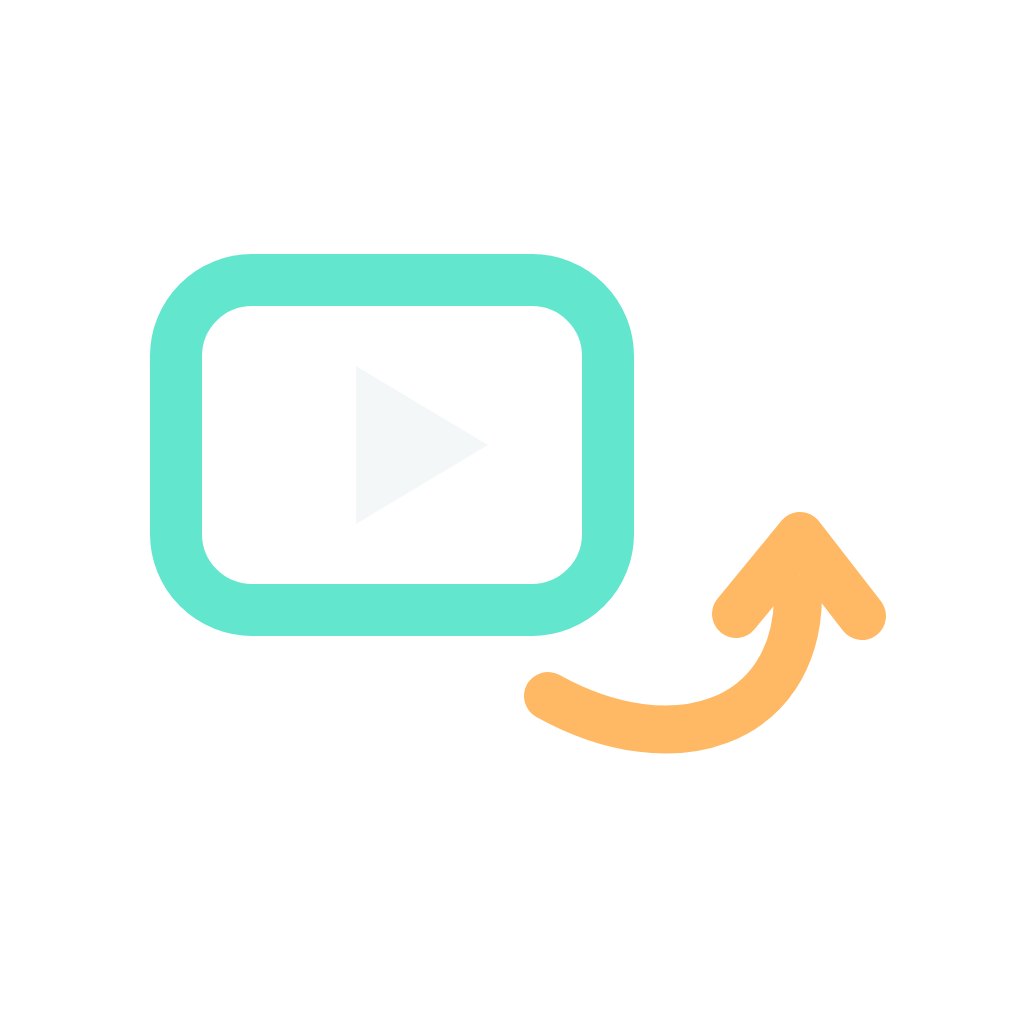
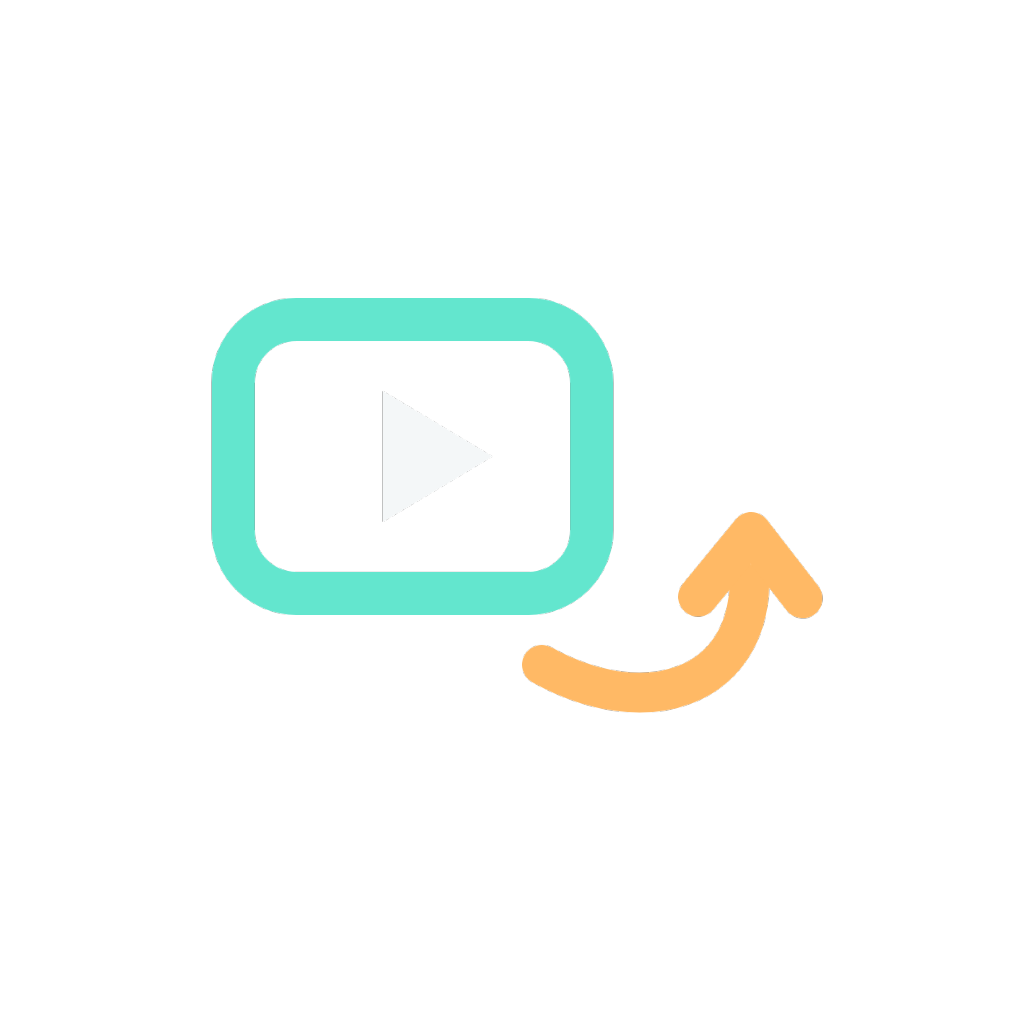
fix(ui): respect safe areas and unblock home touches

Changed region(s): [[0.125, 0.25, 0.875, 0.75]]

diff --git a/src/ui/screens/ConversionScreen.tsx b/src/ui/screens/ConversionScreen.tsx
@@ -1,5 +1,7 @@
 import React, { useCallback, useEffect, useReducer, useRef, useState } from 'react';
+import brandMark from '../../../assets/brand-mark.png';
 import { AccessibilityInfo, Animated, AppState, Linking, Platform, Pressable, ScrollView, StyleSheet, Text, View } from 'react-native';
+import { useSafeAreaInsets } from 'react-native-safe-area-context';
 import Constants from 'expo-constants';
 import * as Notifications from 'expo-notifications';
 import * as Sharing from 'expo-sharing';
@@ -78,6 +80,7 @@ import { SubtitlePanel } from '../components/SubtitlePanel';
 import { VideoPreviewCard, type PreviewState } from '../components/VideoPreviewCard';
 import { color, layout, spacing, type } from '../tokens';
 import { updateQueueBadge } from '../navigation/queueBadge';
+import { bottomNavigationClearance } from '../layout';
 
 /** Shown once when Android 13+ notification permission is refused (TR-29). */
 const NOTIFICATION_UNAVAILABLE =
@@ -107,6 +110,7 @@ let introAlreadyShown = false;
  */
 export function ConversionScreen(): React.JSX.Element {
   const router = useRouter();
+  const insets = useSafeAreaInsets();
   const pathname = usePathname();
   const rootNavigationState = useRootNavigationState();
   const detailsId = pathname.startsWith('/results/') ? pathname.slice('/results/'.length) : null;
@@ -876,6 +880,7 @@ export function ConversionScreen(): React.JSX.Element {
     <View style={styles.screen}>
       {showQueue ? (
         <QueuePanel
+          bottomInset={insets.bottom}
           state={queue}
           focusId={focusId}
           disabled={saveState.status === 'saving'}
@@ -918,7 +923,10 @@ export function ConversionScreen(): React.JSX.Element {
           ) : null}
         />
       ) : (
-      <ScrollView contentContainerStyle={styles.content} style={styles.scroll}>
+      <ScrollView
+        contentContainerStyle={[styles.content, { paddingBottom: bottomNavigationClearance(insets.bottom) + layout.screenPadding }]}
+        style={styles.scroll}
+      >
         <View style={styles.inner}>
           {showHome ? (
             <HomeDashboard
@@ -986,6 +994,7 @@ export function ConversionScreen(): React.JSX.Element {
 
           {showQueue && queue.jobs.length > 0 ? (
             <QueuePanel
+              bottomInset={insets.bottom}
               state={queue}
               focusId={focusId}
               disabled={saveState.status === 'saving'}
@@ -1199,7 +1208,7 @@ export function ConversionScreen(): React.JSX.Element {
 
       {/* Without a file there is nothing to convert, so the action bar stays away. */}
       {showConvert && queue.jobs.length > 0 ? (
-        <View style={styles.actionBar}>
+        <View style={[styles.actionBar, { marginBottom: bottomNavigationClearance(insets.bottom) + spacing.sm }]}>
           {running !== null ? (
             <SecondaryButton
               label="Cancel all"
@@ -1367,7 +1376,7 @@ function Entrance({ children, delay }: { readonly children: React.ReactNode; rea
 }
 
 /** The animated pieces assemble over a static copy of the established brand mark. */
-function IntroOverlay({ reducedMotion }: { readonly reducedMotion: boolean }): React.JSX.Element {
+export function IntroOverlay({ reducedMotion }: { readonly reducedMotion: boolean }): React.JSX.Element {
   const progress = React.useRef(new Animated.Value(0)).current;
   useEffect(() => {
     Animated.timing(progress, { toValue: 1, duration: reducedMotion ? 350 : 1550, useNativeDriver: true }).start();
@@ -1387,7 +1396,13 @@ function IntroOverlay({ reducedMotion }: { readonly reducedMotion: boolean }): R
     ? progress.interpolate({ inputRange: [0, 1], outputRange: [0, 1] })
     : progress.interpolate({ inputRange: [0.78, 1], outputRange: [0, 1] });
   return (
-    <View style={styles.introOverlay} accessible accessibilityViewIsModal accessibilityLabel="Transmute is starting">
+    <View
+      pointerEvents="none"
+      style={styles.introOverlay}
+      accessible={false}
+      accessibilityElementsHidden
+      importantForAccessibility="no-hide-descendants"
+    >
       <View style={styles.markCanvas}>
         {!reducedMotion ? <>
           <Animated.View style={[styles.logoFrame, pieceStyle(-36, -24)]} />
@@ -1396,7 +1411,7 @@ function IntroOverlay({ reducedMotion }: { readonly reducedMotion: boolean }): R
           <Animated.View style={[styles.logoArrowHeadOne, pieceStyle(-18, 20, '-50deg')]} />
           <Animated.View style={[styles.logoArrowHeadTwo, pieceStyle(-18, 20, '56deg')]} />
         </> : null}
-        <Animated.Image source={require('../../../assets/brand-mark.png')} resizeMode="contain" style={[styles.assembledMark, { opacity: finalMarkOpacity }]} />
+        <Animated.Image source={brandMark} resizeMode="contain" style={[styles.assembledMark, { opacity: finalMarkOpacity }]} />
       </View>
       <Animated.Text style={[styles.introWordmark, { opacity: wordmarkOpacity }]}>Transmute</Animated.Text>
     </View>
@@ -1413,7 +1428,6 @@ const styles = StyleSheet.create({
   },
   content: {
     padding: layout.screenPadding,
-    paddingBottom: 120,
   },
   inner: {
     width: '100%',
@@ -1507,7 +1521,6 @@ const styles = StyleSheet.create({
   actionBar: {
     gap: spacing.sm,
     padding: layout.screenPadding,
-    marginBottom: 94,
     borderTopWidth: 1,
     borderTopColor: color.border,
     backgroundColor: color.bg,

diff --git a/app/_layout.tsx b/app/_layout.tsx
@@ -1,7 +1,7 @@
 import { Stack } from 'expo-router';
 import { StatusBar } from 'expo-status-bar';
-import { Platform, StatusBar as NativeStatusBar, StyleSheet, View } from 'react-native';
-import { SafeAreaProvider } from 'react-native-safe-area-context';
+import { StyleSheet, View } from 'react-native';
+import { SafeAreaProvider, useSafeAreaInsets } from 'react-native-safe-area-context';
 
 import { ConversionScreen } from '../src/ui/screens/ConversionScreen';
 import { color } from '../src/ui/tokens';
@@ -9,30 +9,35 @@ import { color } from '../src/ui/tokens';
 export default function RootLayout() {
   return (
     <SafeAreaProvider>
-      <View style={styles.root}>
-        <StatusBar style="light" />
-        <View style={styles.inset}>
-          {/* Keep the conversion controller mounted while the route changes. */}
-          <View pointerEvents="box-none" style={styles.controller}>
-            <ConversionScreen />
-          </View>
-          <Stack screenOptions={{ headerShown: false, animation: 'fade', contentStyle: { backgroundColor: 'transparent' } }}>
-            <Stack.Screen name="(tabs)" options={{ headerShown: false }} />
-            <Stack.Screen name="activity" options={{ animation: 'slide_from_right' }} />
-            <Stack.Screen name="notices" options={{ animation: 'slide_from_right' }} />
-            <Stack.Screen name="results/[id]" options={{ animation: 'slide_from_right' }} />
-          </Stack>
-        </View>
-      </View>
+      <RootContent />
     </SafeAreaProvider>
+  );
+}
+
+function RootContent() {
+  const insets = useSafeAreaInsets();
+  return (
+    <View style={styles.root}>
+      <StatusBar style="light" />
+      {/* Apply the system top inset here once; descendants only handle the tab bar. */}
+      <View style={[styles.inset, { paddingTop: insets.top, paddingLeft: insets.left, paddingRight: insets.right }]}>
+        {/* Keep the conversion controller mounted while the route changes. */}
+        <View pointerEvents="box-none" style={styles.controller}>
+          <ConversionScreen />
+        </View>
+        <Stack screenOptions={{ headerShown: false, animation: 'fade', contentStyle: { backgroundColor: 'transparent' } }}>
+          <Stack.Screen name="(tabs)" options={{ headerShown: false }} />
+          <Stack.Screen name="activity" options={{ animation: 'slide_from_right' }} />
+          <Stack.Screen name="notices" options={{ animation: 'slide_from_right' }} />
+          <Stack.Screen name="results/[id]" options={{ animation: 'slide_from_right' }} />
+        </Stack>
+      </View>
+    </View>
   );
 }
 
 const styles = StyleSheet.create({
   root: { flex: 1, backgroundColor: color.bg },
-  inset: {
-    flex: 1,
-    paddingTop: Platform.OS === 'android' ? (NativeStatusBar.currentHeight ?? 0) : 44,
-  },
+  inset: { flex: 1 },
   controller: StyleSheet.absoluteFill,
 });

diff --git a/src/ui/navigation/RootLayout.test.tsx b/src/ui/navigation/RootLayout.test.tsx
@@ -14,7 +14,7 @@ vi.mock('react-native', async () => {
     ReactModule.createElement(name, props, children as React.ReactNode);
   return {
     Platform: { OS: 'android' },
-    StatusBar: { currentHeight: 24 },
+    StatusBar: { currentHeight: 99 },
     StyleSheet: { create: (styles: unknown) => styles, absoluteFill: { position: 'absolute' } },
     View: host('View'),
   };
@@ -27,7 +27,10 @@ vi.mock('expo-status-bar', async () => {
 
 vi.mock('react-native-safe-area-context', async () => {
   const ReactModule = await import('react');
-  return { SafeAreaProvider: ({ children }: { children: React.ReactNode }) => ReactModule.createElement('SafeAreaProvider', null, children) };
+  return {
+    SafeAreaProvider: ({ children }: { children: React.ReactNode }) => ReactModule.createElement('SafeAreaProvider', null, children),
+    useSafeAreaInsets: () => ({ top: 24, right: 12, bottom: 32, left: 8 }),
+  };
 });
 
 vi.mock('expo-router', async () => {
@@ -67,6 +70,8 @@ describe('root conversion controller navigation lifecycle', () => {
   it('keeps the controller mounted as the Router stack changes screens', () => {
     act(() => { renderer = TestRenderer.create(React.createElement(RootLayout)); });
     expect(mocks.mounts).toBe(1);
+    const insetView = renderer.root.findAll((node) => String(node.type) === 'View' && Array.isArray(node.props.style) && node.props.style.some((style) => style !== null && typeof style === 'object' && 'paddingTop' in style))[0];
+    expect(insetView?.props.style).toEqual(expect.arrayContaining([expect.objectContaining({ paddingTop: 24, paddingLeft: 8, paddingRight: 12 })]));
 
     mocks.route = '/queue';
     act(() => { renderer.update(React.createElement(RootLayout)); });

diff --git a/src/ui/screens/ConversionScreen.test.tsx b/src/ui/screens/ConversionScreen.test.tsx
@@ -34,6 +34,12 @@ vi.mock('react-native', async () => {
   };
 });
 
+vi.mock('../../../assets/brand-mark.png', () => ({ default: 'brand-mark' }));
+
+vi.mock('react-native-safe-area-context', () => ({
+  useSafeAreaInsets: () => ({ top: 0, right: 0, bottom: 24, left: 0 }),
+}));
+
 vi.mock('expo-router', () => ({
   useRouter: () => ({ push: mocks.push, replace: mocks.replace }),
   usePathname: () => mocks.pathname,
@@ -102,7 +108,7 @@ vi.mock('../components/SavePanel', () => ({ SavePanel: () => null }));
 vi.mock('../components/SubtitlePanel', () => ({ SubtitlePanel: () => null }));
 vi.mock('../components/VideoPreviewCard', () => ({ VideoPreviewCard: () => null }));
 
-import { ConversionScreen } from './ConversionScreen';
+import { ConversionScreen, IntroOverlay } from './ConversionScreen';
 
 Object.assign(globalThis, { IS_REACT_ACT_ENVIRONMENT: true });
 
@@ -111,6 +117,15 @@ function button(renderer: TestRenderer.ReactTestRenderer, label: string) {
 }
 
 describe('ConversionScreen Convert action', () => {
+  it('keeps the opening artwork from blocking Home controls while it animates', () => {
+    let introRenderer: TestRenderer.ReactTestRenderer;
+    act(() => { introRenderer = TestRenderer.create(React.createElement(IntroOverlay, { reducedMotion: true })); });
+    const overlay = introRenderer!.root.findAll((node) => String(node.type) === 'View' && node.props.pointerEvents === 'none');
+    expect(overlay).toHaveLength(1);
+    expect(overlay[0]?.props.accessibilityViewIsModal).toBeUndefined();
+    act(() => introRenderer!.unmount());
+  });
+
   let renderer: TestRenderer.ReactTestRenderer;
   let finishConversion: ((result: unknown) => void) | undefined;
 

diff --git a/app/(tabs)/_layout.tsx b/app/(tabs)/_layout.tsx
@@ -3,15 +3,15 @@ import { Platform, StyleSheet, Text } from 'react-native';
 import { useSafeAreaInsets } from 'react-native-safe-area-context';
 
 import { getQueueBadge, subscribeQueueBadge } from '../../src/ui/navigation/queueBadge';
-import { color, spacing, type } from '../../src/ui/tokens';
+import { color, layout, spacing, type } from '../../src/ui/tokens';
 import { useSyncExternalStore } from 'react';
 
 const tabs = [
-  { name: 'index', title: 'Home', icon: '⌂' },
-  { name: 'convert', title: 'Convert', icon: '↻' },
-  { name: 'queue', title: 'Queue', icon: '☷' },
-  { name: 'results', title: 'Results', icon: '▤' },
-  { name: 'settings', title: 'Settings', icon: '⚙' },
+  { name: 'index', title: 'Home', icon: '\u2302' },
+  { name: 'convert', title: 'Convert', icon: '\u21bb' },
+  { name: 'queue', title: 'Queue', icon: '\u2261' },
+  { name: 'results', title: 'Results', icon: '\u25a3' },
+  { name: 'settings', title: 'Settings', icon: '\u2699' },
 ] as const;
 
 /** The root conversion controller stays mounted while this navigator changes tabs. */
@@ -23,7 +23,7 @@ export default function MainTabs() {
       screenOptions={{
         headerShown: false,
         sceneStyle: { backgroundColor: 'transparent' },
-        tabBarStyle: [styles.bar, { height: 62 + insets.bottom, paddingBottom: Math.max(insets.bottom, spacing.xs) }],
+        tabBarStyle: [styles.bar, { height: layout.tabBarHeight + insets.bottom, paddingBottom: Math.max(insets.bottom, spacing.xs) }],
         tabBarItemStyle: styles.item,
         tabBarActiveTintColor: color.accent,
         tabBarInactiveTintColor: color.textSecondary,

diff --git a/src/ui/components/QueuePanel.tsx b/src/ui/components/QueuePanel.tsx
@@ -9,7 +9,8 @@ import {
   type QueueState,
 } from '../../domain/queue';
 import { formatBytes, queueStatusLabel } from '../format';
-import { color, radius, spacing, type, weight } from '../tokens';
+import { color, layout, radius, spacing, type, weight } from '../tokens';
+import { bottomNavigationClearance } from '../layout';
 import { ProgressBar, type ProgressTone } from './ProgressBar';
 import { SecondaryButton } from './SecondaryButton';
 
@@ -19,6 +20,7 @@ export interface QueuePanelProps {
   readonly focusId: string | null;
   /** True while a copy is running: cancelling or retrying now would race it. */
   readonly disabled: boolean;
+  readonly bottomInset?: number;
   readonly onCancelJob: (job: QueueJob) => void;
   readonly onRetryJob: (job: QueueJob) => void;
   /** A converted row becomes the row whose file the copy panel works on. */
@@ -149,6 +151,7 @@ export function QueuePanel({
   state,
   focusId,
   disabled,
+  bottomInset = 0,
   onCancelJob,
   onRetryJob,
   onSelectJob,
@@ -164,7 +167,7 @@ export function QueuePanel({
   return (
     <FlatList
       style={styles.list}
-      contentContainerStyle={styles.panel}
+      contentContainerStyle={[styles.panel, { paddingBottom: bottomNavigationClearance(bottomInset) + layout.screenPadding }]}
       data={state.jobs}
       keyExtractor={(job) => job.id}
       initialNumToRender={8}
@@ -221,8 +224,7 @@ export function QueuePanel({
 const styles = StyleSheet.create({
   panel: {
     gap: spacing.sm,
-    padding: spacing.md,
-    paddingBottom: 120,
+    padding: layout.screenPadding,
   },
   list: {
     flex: 1,

diff --git a/src/ui/layout.ts b/src/ui/layout.ts
@@ -1,0 +1,6 @@
+import { layout } from './tokens';
+
+/** Space occupied by the floating tab bar plus the system navigation area. */
+export function bottomNavigationClearance(bottomInset: number): number {
+  return layout.tabBarHeight + bottomInset;
+}

diff --git a/src/ui/tokens.ts b/src/ui/tokens.ts
@@ -69,4 +69,5 @@ export const layout = {
   screenPadding: spacing.lg,
   maxContentWidth: 560,
   sectionGap: spacing.xl,
+  tabBarHeight: 62,
 } as const;

diff --git a/src/types/assets.d.ts b/src/types/assets.d.ts
@@ -1,0 +1,4 @@
+declare module '*.png' {
+  const asset: number;
+  export default asset;
+}

diff --git a/tasks.md b/tasks.md
@@ -10,6 +10,7 @@
 
 - **Native build and install:** The fresh short-path build at `C:\t` completed successfully for `armeabi-v7a` with one Gradle worker and CMake parallelism 1 (574 actionable tasks; Ninja passed the shortened-object-path gate). Installed the fresh debug APK at `C:\t\android\app\build\outputs\apk\debug\app-debug.apk` on `R58T402DKYB`. Expo initially bound Metro to IPv6 `::1`, while ADB reverse uses IPv4 `127.0.0.1`; restarting with `--host lan` bound `0.0.0.0` and allowed the app bundle to load. The app launched and Home plus all five labeled tabs rendered. The first device screenshot exposed an oversized Home header; a compact header fix is implemented and passes automated checks, but was not visually rechecked because the phone moved to another active app. Final notification/deep-link and conversion/save/share runtime checks remain open.
 - **Frontend and branding:** Original Transmute assets are configured across launcher, adaptive icon, splash, web favicon, notification, and in-app identity. Final icon padding was included in the successful build. Previous APK runtime checks are recorded historically; final APK visual/runtime checks remain pending.
+- **Mobile layout, touch, and adaptive icon follow-up:** Replaced fixed status-bar offsets and bottom clearance with provider-reported insets and shared tab-bar tokens; made the launch artwork click-through; added insets/touch regression checks. Regenerated Android adaptive foreground and monochrome layers and built a 32-bit debug APK. TypeScript, Android bundle export, and tests passed (397/397); ADB has no connected phone or emulator, so physical screens, tap/scroll, tab navigation during conversion, nav-mode and large-font layouts, and handset launcher-mask checks remain open.
 
 ## Current execution checklist
 
